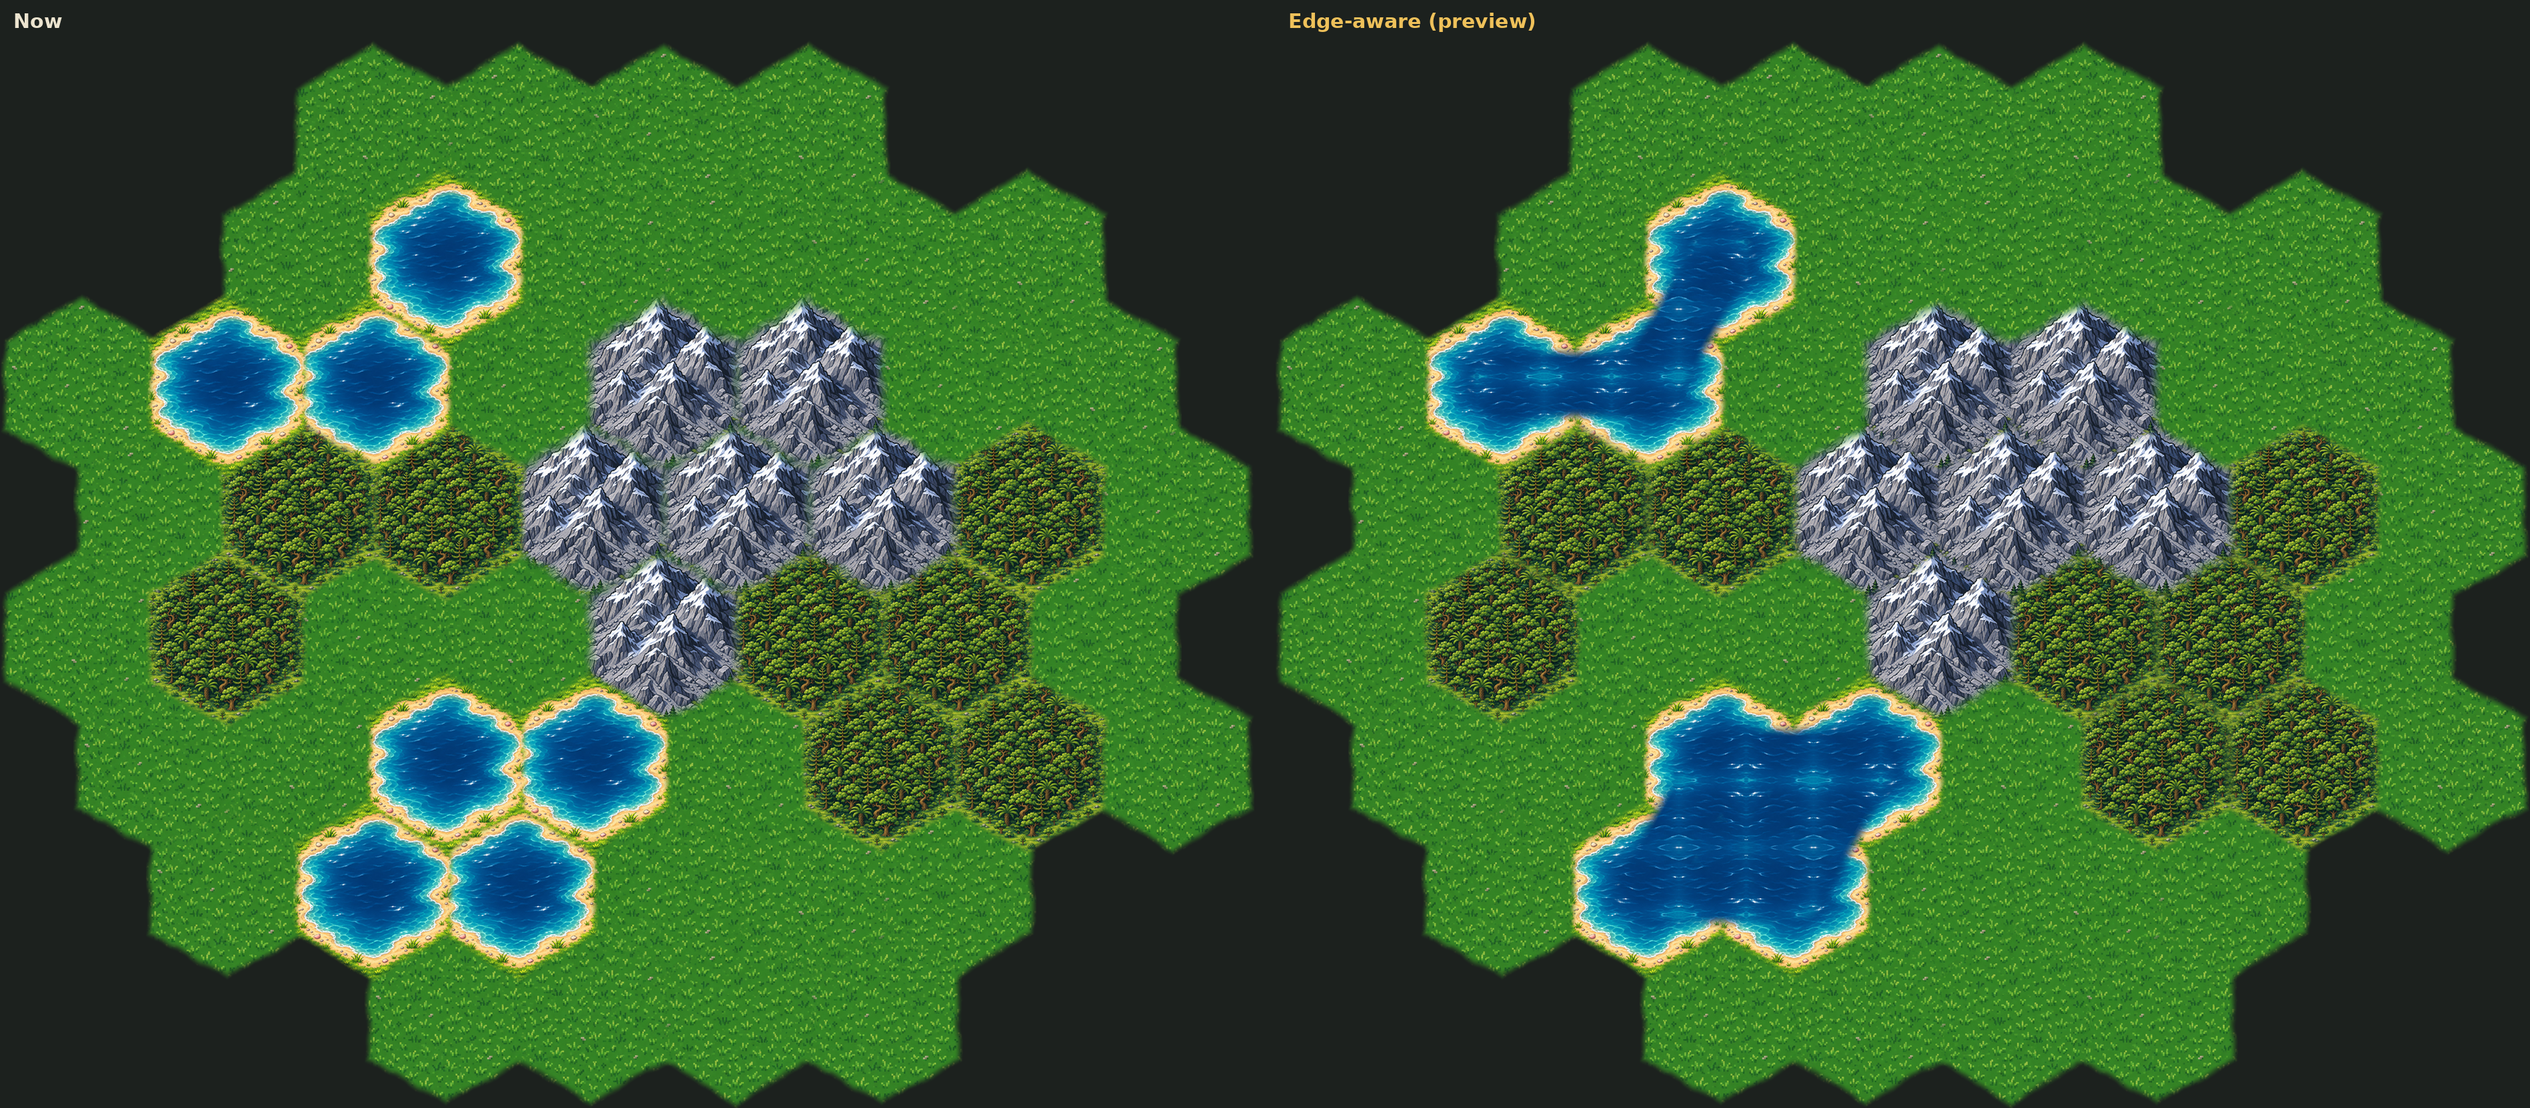
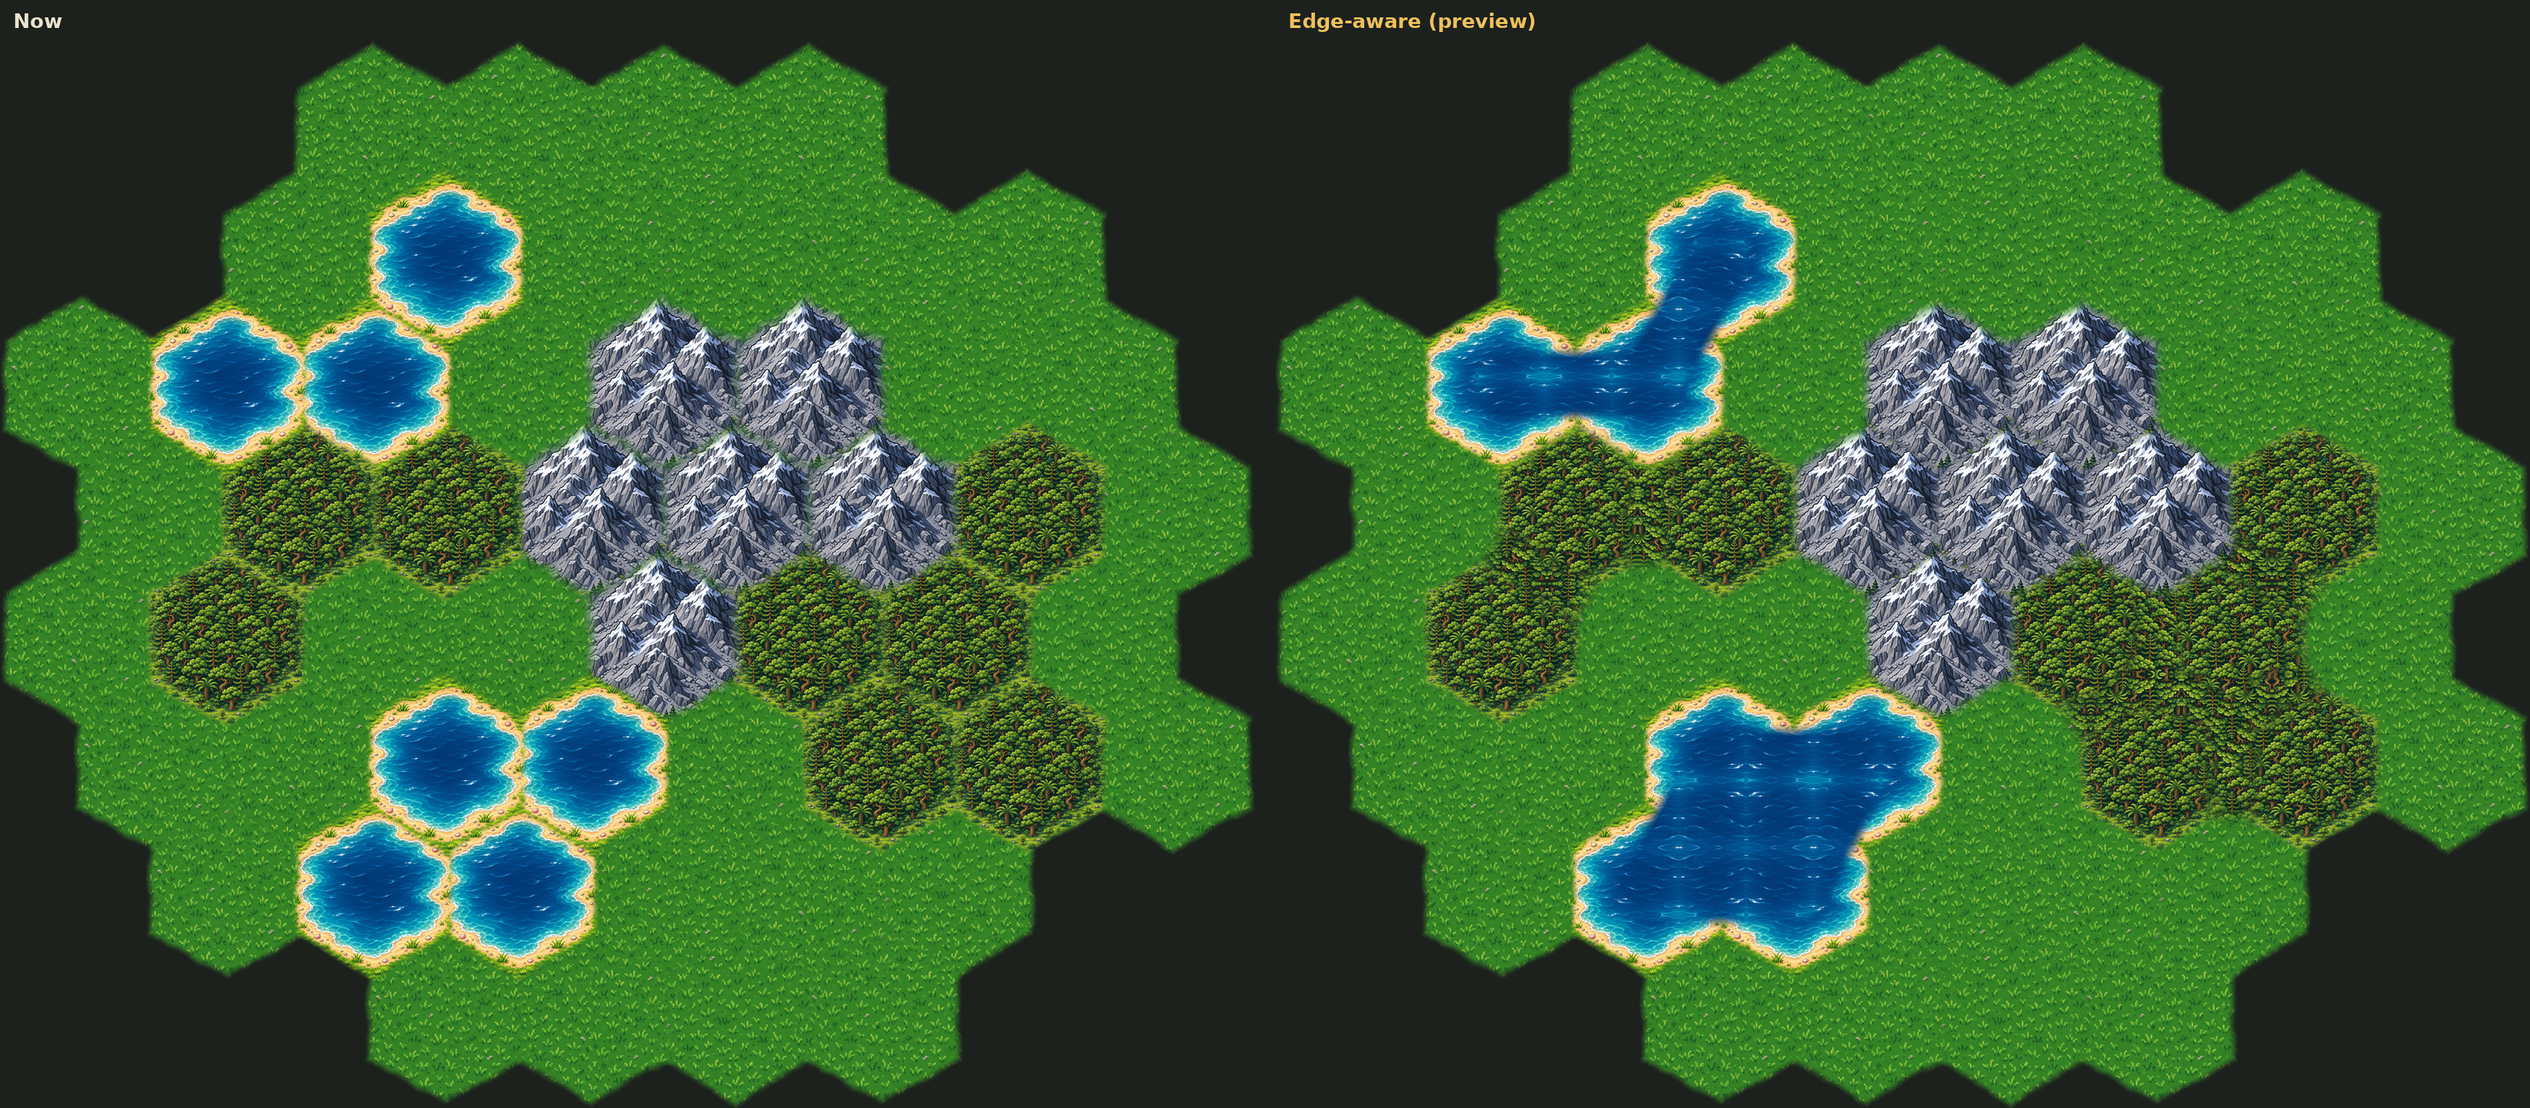
Edge-aware preview: forests blend further (earlier ragged fade, wider canopy bridge)
Claude-Session: https://claude.ai/code/session_01LqypGY4SS6euzPB7gm4ade

Changed region(s): [[0.8119, 0.491, 0.9368, 0.7365], [0.5621, 0.3989, 0.687, 0.5523]]

diff --git a/dev/edge-aware/preview.py b/dev/edge-aware/preview.py
@@ -86,7 +86,7 @@ def composite(canvas, img, alpha, cx, cy):
 def bridge(cv, terr, kind):
     """Joins neighbouring hexes of one kind: a patch of that tile's own middle (mirrored to fill) laid centre to centre
     across their shared edge, soft-edged, and over the corner where three of them meet."""
-    src = Image.open(T + kind + '.png').convert('RGB'); ww, wh = src.size; r = 46
+    src = Image.open(T + kind + '.png').convert('RGB'); ww, wh = src.size; r = 46 if kind == 'water' else 62
     patch = src.crop((ww // 2 - r, wh // 2 - r, ww // 2 + r, wh // 2 + r)).resize((int(2 * r * tw / ww), int(2 * r * tw / ww)), Image.LANCZOS)
     pr = np.array(patch).astype(np.float32) / 255
     tile2 = np.concatenate([np.concatenate([pr, pr[:, ::-1]], 1), np.concatenate([pr[::-1], pr[::-1, ::-1]], 1)], 0)
@@ -94,7 +94,7 @@ def bridge(cv, terr, kind):
     yy, xx = np.mgrid[0:H, 0:W].astype(np.float32)
     m = np.zeros((H, W), np.float32)
     hs = [i for i in terr if cells[i] == kind]
-    wid = HR * PX * (.46 if kind == 'water' else .60)
+    wid = HR * PX * (.46 if kind == 'water' else .78)
     for i in hs:
         for j in nbr_dirs(i):
             if j < 0 or j < i or cells[j] != kind: continue
@@ -155,7 +155,10 @@ def render(edge_aware):
         for k in range(6):
             j = nb[k]; other = cells[j] if j >= 0 else 'void'
             d = DK[k] + (.06 if mnt else .03) * n
-            if other == cells[i]:
+            if other == cells[i] and cells[i] == 'forest':
+                df = DK[k] + .16 * noise(i * 31 + k, 1)                          # a ragged boundary, not a line
+                a = np.minimum(a, ss(.58, .84, df))                               # well before the grassy rim: the canopy shows
+            elif other == cells[i]:
                 a = np.minimum(a, ss(.90, 1.10, d))                               # cross-fade over the shared edge
             elif other in ('forest', 'mountain', 'water'):
                 a = np.minimum(a, ss(.92, 1.14, d))                               # overlap the neighbour, no grass between
